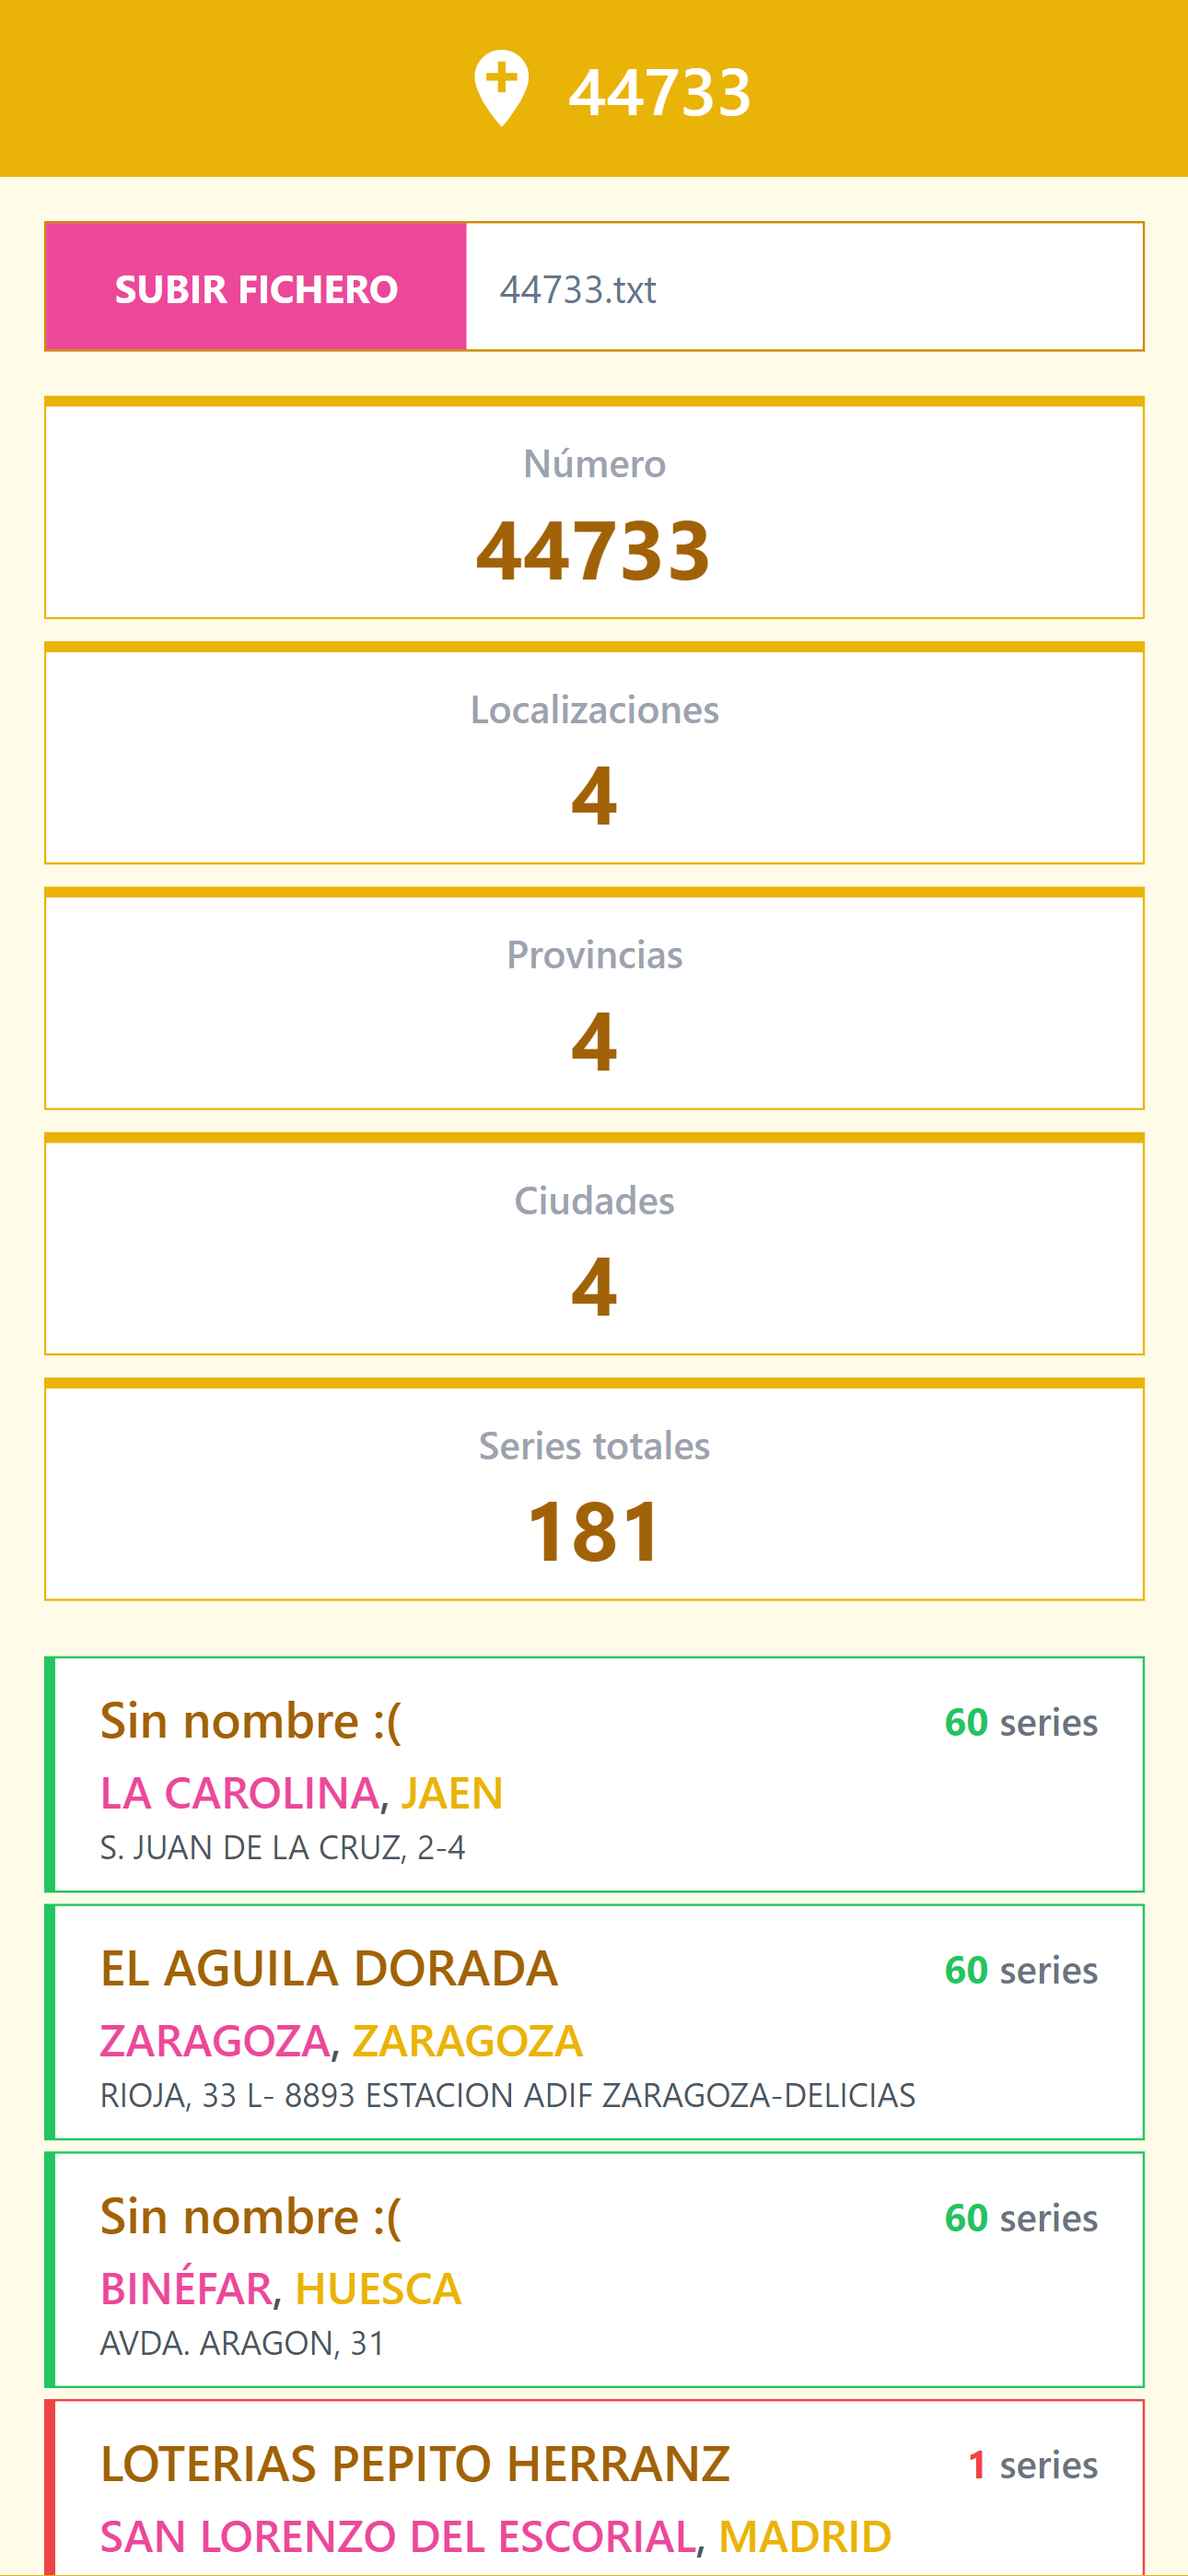
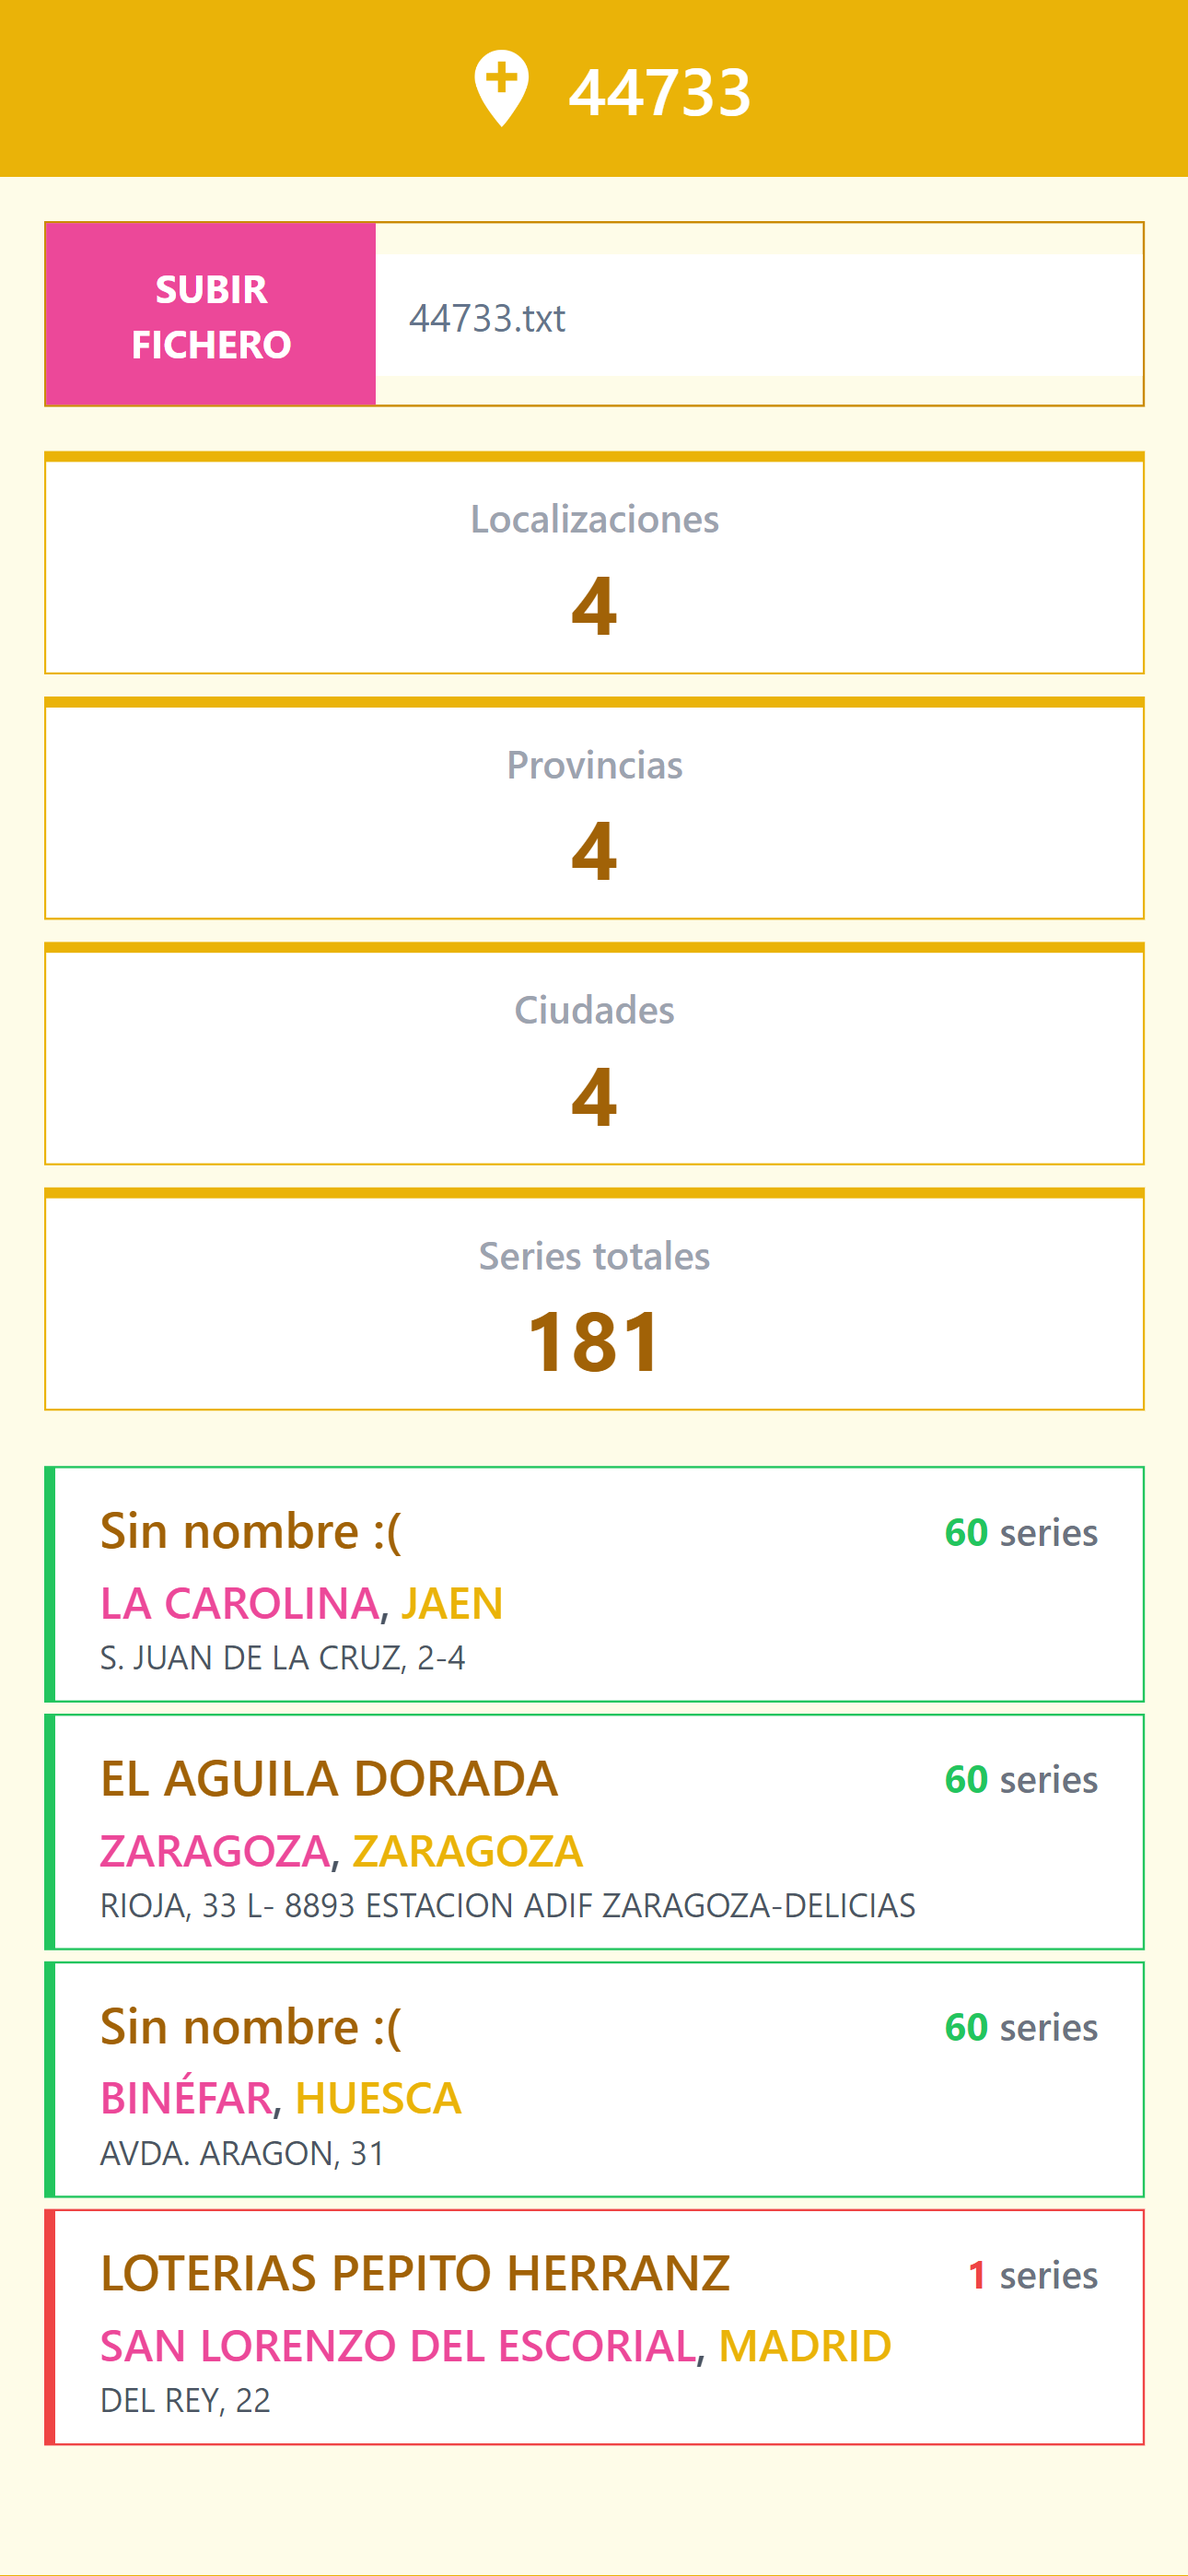
Fix bug and update screenshots

diff --git a/src/views/HomeView.vue b/src/views/HomeView.vue
@@ -21,7 +21,9 @@ const stats = computed(() => {
     locations: locations.items.length,
     provinces: new Set(locations.items.map((x) => x.province)).size,
     cities: new Set(locations.items.map((x) => x.city)).size,
-    series: locations.items.map((x) => x.series.length).reduce((a, b) => a + b, 0)
+    series: locations.items
+      .map((x) => x.series.length)
+      .reduce((a, b) => a + b, 0)
   }
 })
 
@@ -60,11 +62,13 @@ const handleFileUpload = async () => {
         <input type="file" id="file_input" hidden @change="handleFileUpload()" ref="file" />
         <label
           for="file_input"
-          class="border border-pink-500 bg-pink-500 text-white active:bg-pink-600 font-bold uppercase text-sm px-6 py-3 hover:bg-pink-600 outline-none focus:outline-none ease-linear transition-all duration-150"
+          class="border border-pink-500 bg-pink-500 text-white active:bg-pink-600 font-bold 
+          uppercase text-sm px-6 py-3 hover:bg-pink-600 outline-none focus:outline-none ease-linear 
+          transition-all duration-150 text-center"
         >
           Subir fichero
         </label>
-        <label class="flex-1 text-sm text-slate-500 p-3 bg-white w-full">{{ filename }}</label>
+        <label class="md:flex-1 flex-auto text-sm text-slate-500 p-3 bg-white w-full">{{ filename }}</label>
       </div>
     </form>
 

diff --git a/src/components/LocationList.vue b/src/components/LocationList.vue
@@ -15,7 +15,7 @@ defineProps<{
     <template v-if="items.length == 0 && !isLoading">
       <div class="flex flex-col items-center justify-center h-full">
         <div class="flex flex-col align-middle text-center mx-4 h-full text-gray-400 font-medium">
-          <p>Descarga el fichero de localizaciones desde la web de</p>
+          <p>Descarga los ficheros de localizaciones desde la web de</p>
           <a
             class="text-pink-500 font-bold"
             href="https://www.loteriasyapuestas.es/es/buscar-decimo"
